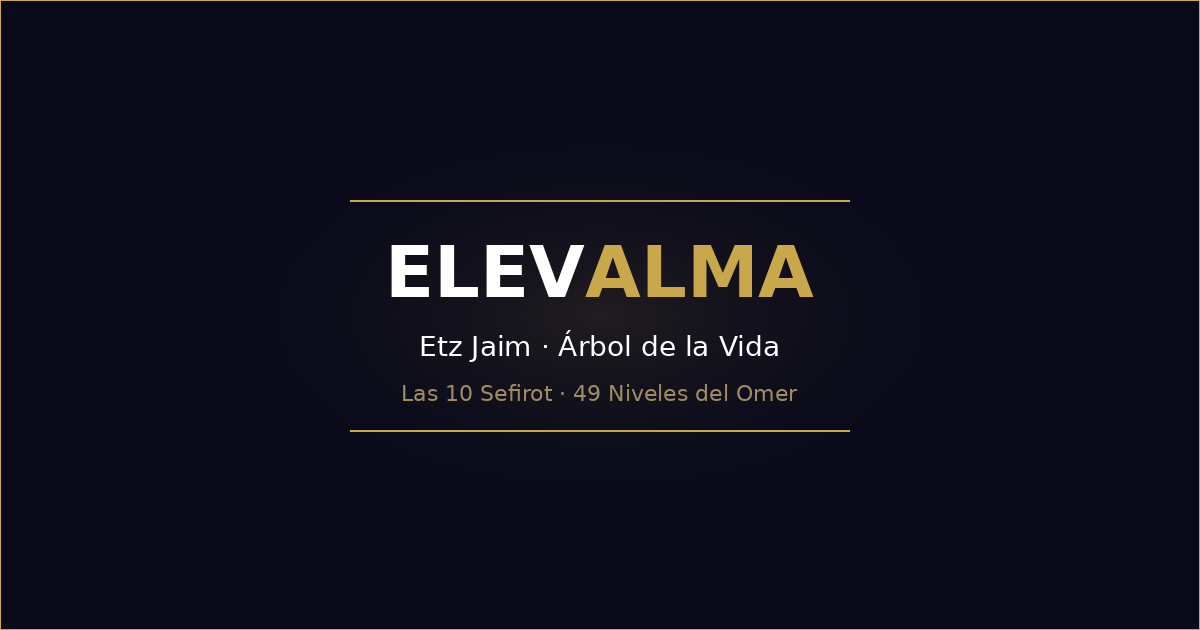
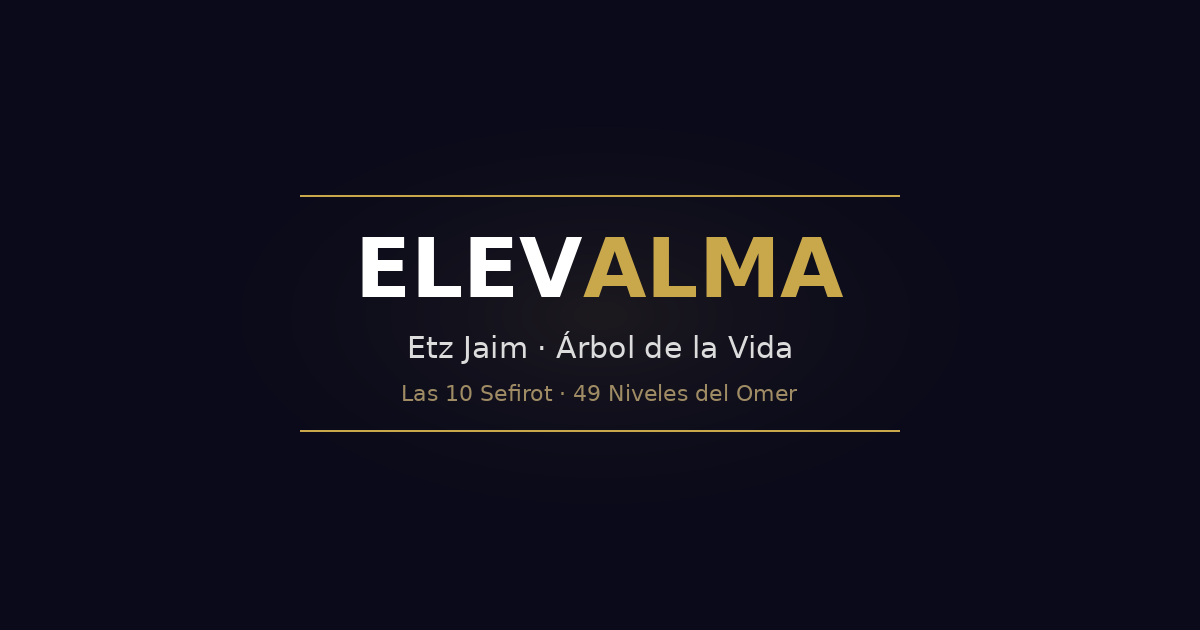
Agregar canal WhatsApp a footers + OG images con márgenes ajustados

diff --git a/index.html b/index.html
@@ -302,6 +302,15 @@
                 <div class="contact-channel-value">@elevalma.oficial</div>
               </div>
             </a>
+            <a href="https://whatsapp.com/channel/0029VbBt6FK1SWszxnYZE50s" target="_blank" rel="noopener" class="contact-channel">
+              <div class="contact-channel-icon">
+                <svg viewBox="0 0 24 24" fill="currentColor"><path d="M17.5 14.4l-2-1c-.3-.1-.5-.2-.7.2l-1 1.2c-.2.2-.3.3-.6.1-.3-.1-1.2-.4-2.2-1.4-.8-.7-1.4-1.6-1.5-1.9-.2-.3 0-.4.1-.6l.4-.4c.1-.2.2-.3.1-.5l-1-2.3c-.2-.6-.5-.5-.7-.5h-.6c-.2 0-.5.1-.8.4-.3.3-1 1-1 2.4s1 2.8 1.2 3c.1.2 2 3.1 4.9 4.3.7.3 1.2.5 1.6.6.7.2 1.3.2 1.8.1.5-.1 1.6-.7 1.9-1.3.2-.6.2-1.2.2-1.3 0-.2-.2-.3-.4-.4zM12 21.8c-1.8 0-3.5-.5-5-1.3l-.4-.2-3.7 1 1-3.6-.2-.4A9.8 9.8 0 0 1 2.2 12 9.8 9.8 0 0 1 12 2.2 9.8 9.8 0 0 1 21.8 12 9.8 9.8 0 0 1 12 21.8zM12 0a12 12 0 0 0-10.2 18.3L0 24l5.8-1.5A12 12 0 1 0 12 0z"/></svg>
+              </div>
+              <div>
+                <div class="contact-channel-label">WhatsApp</div>
+                <div class="contact-channel-value">Canal ElevAlma</div>
+              </div>
+            </a>
           </div>
         </div>
 
@@ -486,6 +495,7 @@
           <a href="https://open.spotify.com/show/054bnaJPZCms5gtcxLjVkB" target="_blank" rel="noopener">Spotify</a>
           <a href="https://www.instagram.com/elevalma.oficial/" target="_blank" rel="noopener">Instagram</a>
           <a href="https://www.tiktok.com/@elevalma" target="_blank" rel="noopener">TikTok</a>
+          <a href="https://whatsapp.com/channel/0029VbBt6FK1SWszxnYZE50s" target="_blank" rel="noopener">WhatsApp</a>
           <a href="/blog/">Blog</a>
         </div>
         <span class="footer-copy">&copy; 2026 ElevAlma &middot; Saleh Penhos</span>

diff --git a/etz-jaim/index.html b/etz-jaim/index.html
@@ -594,6 +594,7 @@ title: Etz Jaim — ElevAlma
           <a href="https://open.spotify.com/show/054bnaJPZCms5gtcxLjVkB" target="_blank" rel="noopener">Spotify</a>
           <a href="https://www.instagram.com/elevalma.oficial/" target="_blank" rel="noopener">Instagram</a>
           <a href="https://www.tiktok.com/@elevalma" target="_blank" rel="noopener">TikTok</a>
+          <a href="https://whatsapp.com/channel/0029VbBt6FK1SWszxnYZE50s" target="_blank" rel="noopener">WhatsApp</a>
           <a href="/blog/">Blog</a>
         </div>
         <span class="footer-copy">&copy; 2026 ElevAlma &middot; Saleh Penhos</span>

diff --git a/blog/index.html b/blog/index.html
@@ -93,6 +93,7 @@ title: Blog — ElevAlma
         <div class="footer-links">
           <a href="https://www.youtube.com/@elevalma.oficial" target="_blank" rel="noopener">YouTube</a>
           <a href="https://www.instagram.com/elevalma" target="_blank" rel="noopener">Instagram</a>
+          <a href="https://whatsapp.com/channel/0029VbBt6FK1SWszxnYZE50s" target="_blank" rel="noopener">WhatsApp</a>
           <a href="/blog/">Blog</a>
         </div>
         <span class="footer-copy">&copy; 2026 ElevAlma · Saleh Penhos</span>

diff --git a/_layouts/post.html b/_layouts/post.html
@@ -126,6 +126,7 @@
         <div class="footer-links">
           <a href="https://www.youtube.com/@elevalma.oficial" target="_blank" rel="noopener">YouTube</a>
           <a href="https://www.instagram.com/elevalma" target="_blank" rel="noopener">Instagram</a>
+          <a href="https://whatsapp.com/channel/0029VbBt6FK1SWszxnYZE50s" target="_blank" rel="noopener">WhatsApp</a>
           <a href="/blog/">Blog</a>
         </div>
         <span class="footer-copy">&copy; 2026 ElevAlma · Saleh Penhos</span>
